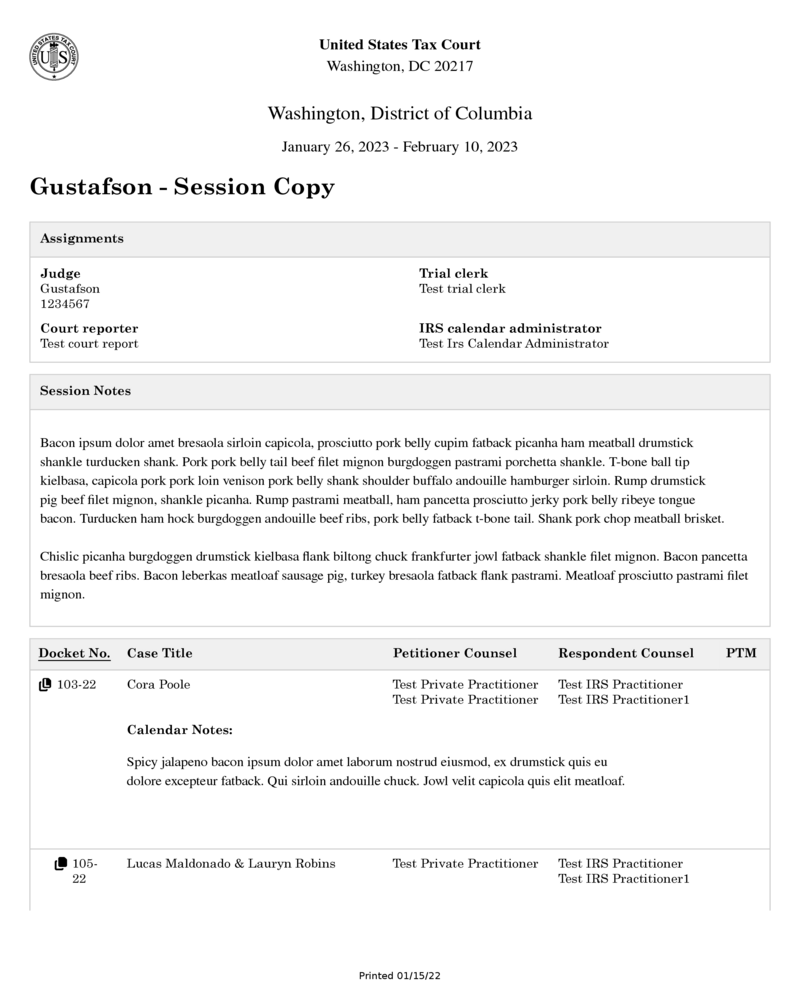
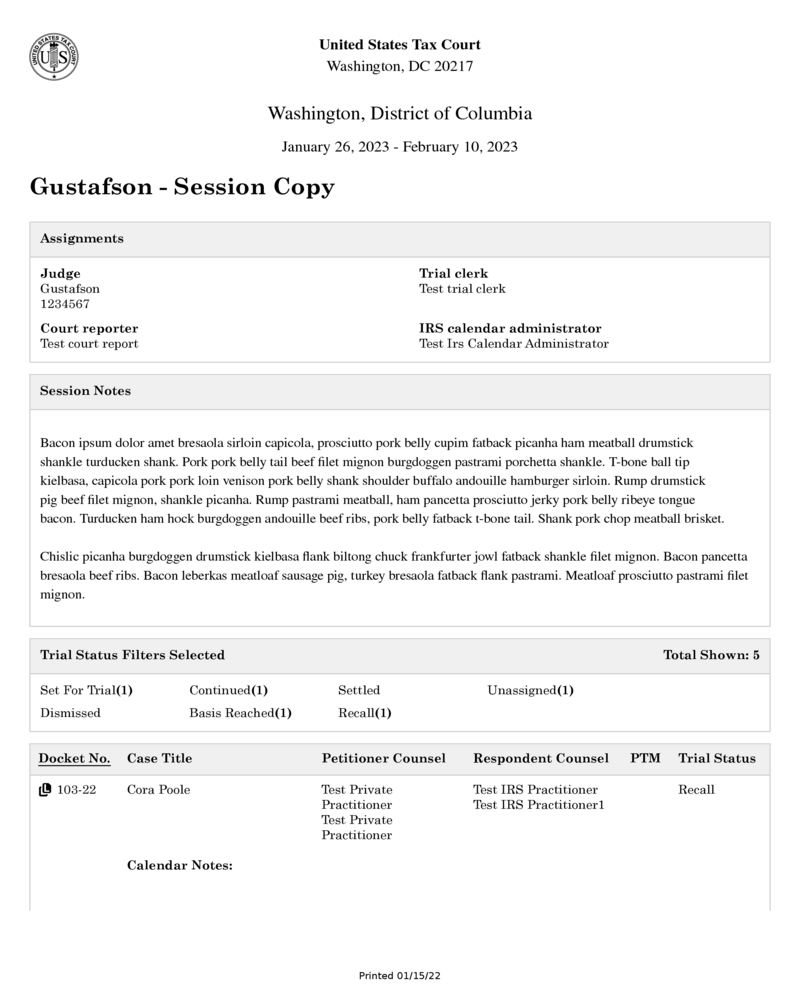
Revert "9805 remove trial status info to test 1774295781"

Changed region(s): [[0.0312, 0.651, 0.9688, 0.899], [0.0625, 0.837, 0.125, 0.868]]

diff --git a/shared/src/business/utilities/pdfGenerator/documentTemplates/PrintableWorkingCopySessionList.tsx b/shared/src/business/utilities/pdfGenerator/documentTemplates/PrintableWorkingCopySessionList.tsx
@@ -43,13 +43,12 @@ export const PrintableWorkingCopySessionList = ({
           formattedTrialSession={formattedTrialSession}
         />
         <SessionNotesSection sessionNotes={sessionNotes} />
-        {showCaseNotes && (
-          <SelectedFiltersSection
-            count={formattedCases.length}
-            selectedFilters={filters}
-            trialStatusCounts={trialStatusCounts}
-          />
-        )}
+        <SelectedFiltersSection
+          count={formattedCases.length}
+          selectedFilters={filters}
+          trialStatusCounts={trialStatusCounts}
+        />
+
         <table>
           <thead>
             <tr>
@@ -73,7 +72,7 @@ export const PrintableWorkingCopySessionList = ({
               </th>
               <th>Respondent Counsel</th>
               <th>PTM</th>
-              {showCaseNotes && <th colSpan={2}>Trial Status</th>}
+              <th colSpan={2}>Trial Status</th>
             </tr>
           </thead>
           <tbody>
@@ -111,9 +110,7 @@ export const PrintableWorkingCopySessionList = ({
                       ))}
                     </td>
                     <td>{formattedCase.filingPartiesCode}</td>
-                    {showCaseNotes && (
-                      <td>{generateCaseStatus(formattedCase.trialStatus)}</td>
-                    )}
+                    <td>{generateCaseStatus(formattedCase.trialStatus)}</td>
                   </tr>
                   <tr className="border-bottom-0 border-top-0">
                     <td colSpan={1}></td>
